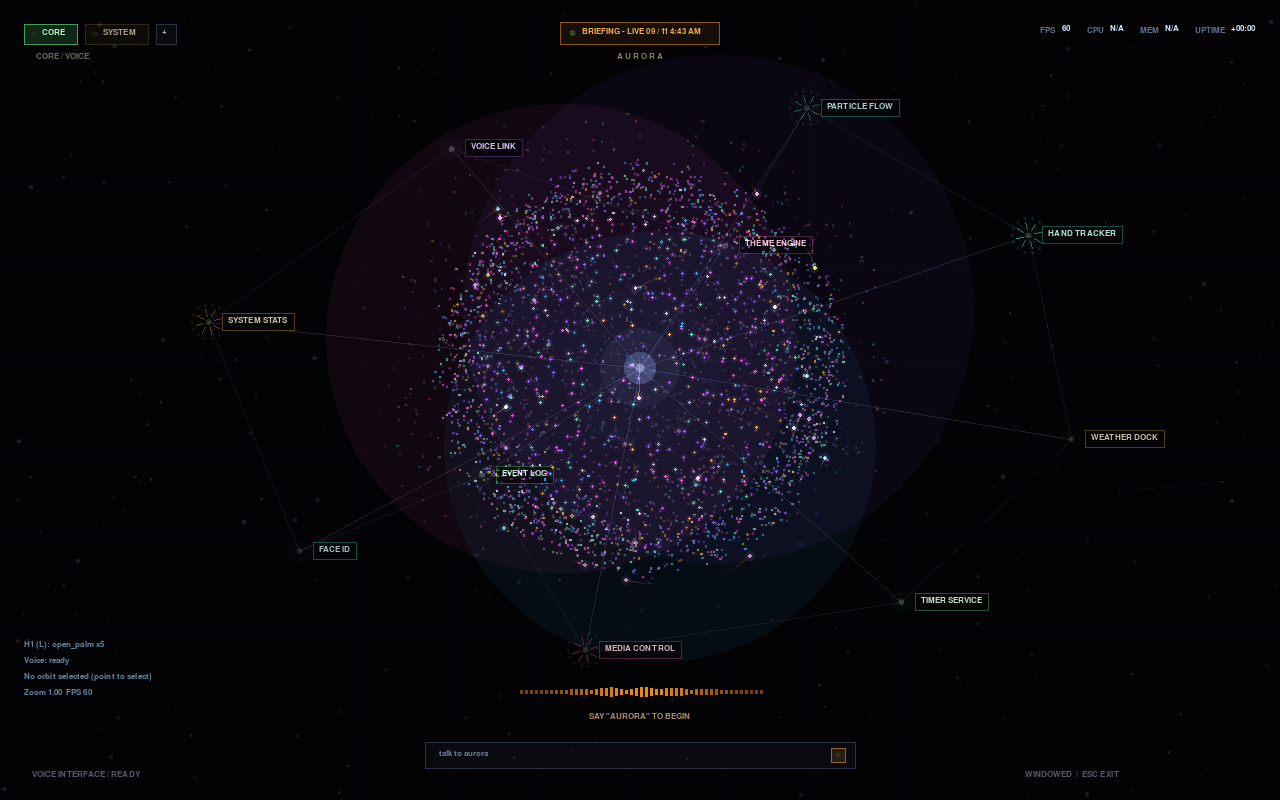
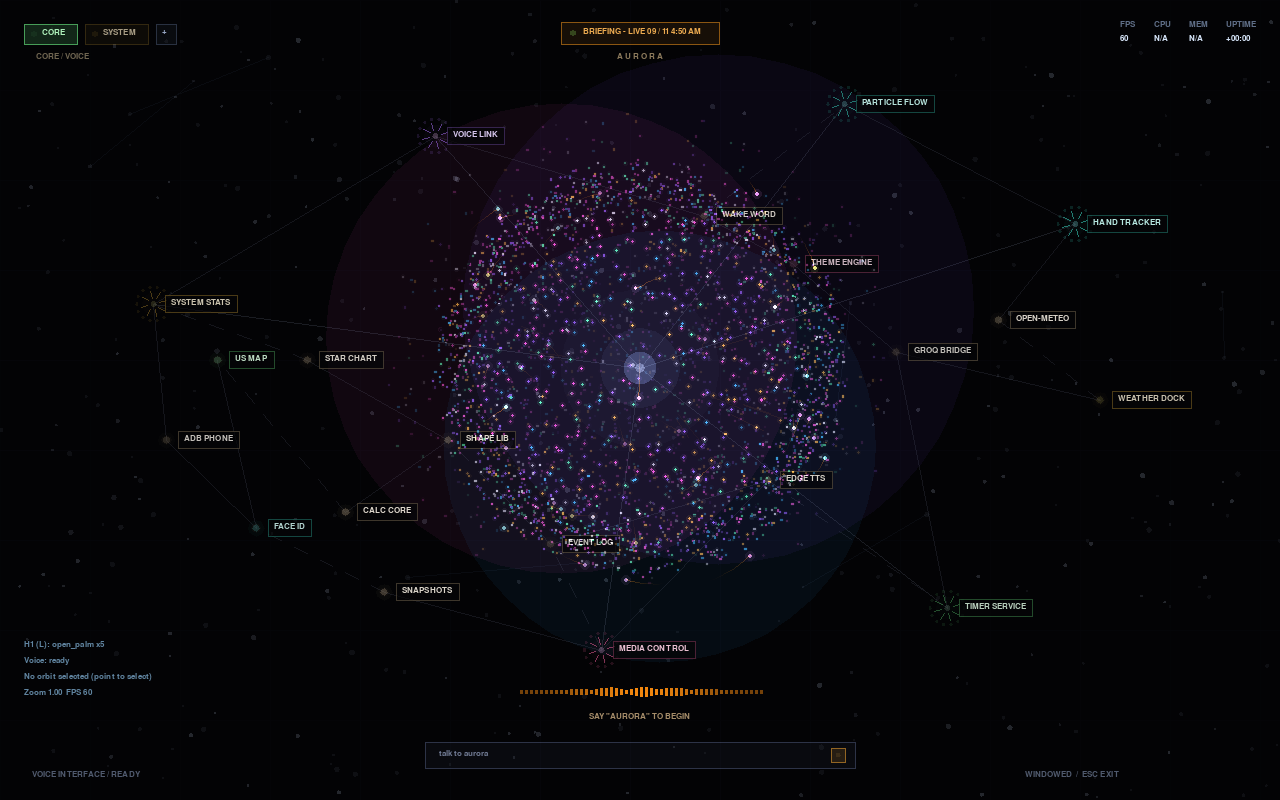
Closer constellation match: screen-wide graph, denser stars, swirl arms
- graph nodes now span the whole window (normalized screen positions)
  with long radiating hub spokes, chained links and dashed edges, like
  the reference dashboards; 20 subsystem nodes with tan terminal dots
  and colored gear clusters, boxed micro-labels
- denser/brighter 420-star field with varied star sizes
- white swirl arms sweeping around the nebula nucleus
- top-right stats restyled as two-row label/value mini table
- regenerated docs previews via the real-code software rasterizer

diff --git a/jarvis_ui/hologram.py b/jarvis_ui/hologram.py
@@ -51,30 +51,46 @@ THEMES = [
     (1.0, 0.2, 0.4),
 ]
 
-# Subsystem graph drawn around the voice core — a live constellation of the
-# assistant's modules. (label, ux, uy, family, gear) with gear=True drawing
-# the radial "flower" cluster from the reference. Families map to colors.
+# Subsystem graph drawn across the whole screen around the voice core — a
+# live constellation of the assistant's modules, in the style of the supplied
+# reference dashboards. (label, fx, fy, family, gear): fx/fy are normalized
+# screen positions; gear=True draws the radial "flower" cluster, otherwise a
+# small tan terminal dot. Families map to colors.
 GRAPH_FAMILIES = {
     "cyan": (0.25, 0.95, 0.85),
     "green": (0.45, 1.0, 0.55),
     "gold": (1.0, 0.78, 0.25),
     "pink": (1.0, 0.4, 0.65),
     "violet": (0.68, 0.45, 1.0),
+    "tan": (0.82, 0.72, 0.55),
 }
 GRAPH_NODES = [
-    ("VOICE LINK", -0.62, -0.86, "violet", False),
-    ("PARTICLE FLOW", 0.55, -1.02, "cyan", True),
-    ("HAND TRACKER", 1.28, -0.52, "cyan", True),
-    ("WEATHER DOCK", 1.42, 0.28, "gold", False),
-    ("TIMER SERVICE", 0.86, 0.92, "green", False),
-    ("MEDIA CONTROL", -0.18, 1.12, "pink", True),
-    ("FACE ID", -1.12, 0.72, "cyan", False),
-    ("SYSTEM STATS", -1.42, -0.18, "gold", True),
-    ("EVENT LOG", -0.52, 0.42, "green", False),
-    ("THEME ENGINE", 0.28, -0.48, "pink", False),
+    ("VOICE LINK", 0.34, 0.17, "violet", True),
+    ("WAKE WORD", 0.55, 0.27, "tan", False),
+    ("PARTICLE FLOW", 0.66, 0.13, "cyan", True),
+    ("HAND TRACKER", 0.84, 0.28, "cyan", True),
+    ("OPEN-METEO", 0.78, 0.40, "tan", False),
+    ("WEATHER DOCK", 0.87, 0.50, "gold", False),
+    ("GROQ BRIDGE", 0.70, 0.44, "tan", False),
+    ("TIMER SERVICE", 0.74, 0.76, "green", True),
+    ("EDGE TTS", 0.60, 0.60, "tan", False),
+    ("MEDIA CONTROL", 0.47, 0.82, "pink", True),
+    ("SNAPSHOTS", 0.30, 0.74, "tan", False),
+    ("FACE ID", 0.20, 0.66, "cyan", False),
+    ("ADB PHONE", 0.13, 0.55, "tan", False),
+    ("SYSTEM STATS", 0.12, 0.38, "gold", True),
+    ("STAR CHART", 0.24, 0.45, "tan", False),
+    ("SHAPE LIB", 0.35, 0.55, "tan", False),
+    ("CALC CORE", 0.27, 0.64, "tan", False),
+    ("US MAP", 0.17, 0.45, "green", False),
+    ("EVENT LOG", 0.43, 0.68, "tan", False),
+    ("THEME ENGINE", 0.62, 0.33, "pink", False),
 ]
 # Extra constellation edges between node indices (besides hub spokes).
-GRAPH_CROSS_LINKS = [(0, 7), (7, 6), (6, 8), (8, 5), (5, 4), (4, 3), (3, 2), (2, 1), (1, 9), (9, 0)]
+GRAPH_CROSS_LINKS = [(0, 1), (1, 2), (2, 3), (3, 4), (4, 5), (5, 6), (6, 7),
+                     (7, 8), (8, 9), (9, 10), (10, 11), (11, 12), (12, 13),
+                     (13, 14), (14, 15), (15, 16), (16, 17), (17, 11),
+                     (18, 15), (18, 8), (19, 1), (19, 6), (0, 13), (9, 18)]
 
 FLASH_COLORS = {
     "thumbs_up": (0.2, 1.0, 0.3),
@@ -370,8 +386,8 @@ class Hologram:
         # links between nearby stars (reference constellation dashboard).
         _star_rng = random.Random(7)
         self.stars = [
-            (_star_rng.random(), _star_rng.random(), _star_rng.uniform(0, 6.28), _star_rng.choice([1, 1, 1, 2]))
-            for _ in range(300)
+            (_star_rng.random(), _star_rng.random(), _star_rng.uniform(0, 6.28), _star_rng.choice([1, 1, 2, 2, 3]))
+            for _ in range(420)
         ]
         self.star_links = []
         for i in range(0, len(self.stars) - 1, 7):
@@ -1287,8 +1303,8 @@ class Hologram:
         for fx, fy, phase, size in self.stars:
             twinkle = 1.0 if self.reduced_motion else \
                 0.35 + 0.65 * max(0.0, math.sin(self.elapsed * 1.2 + phase))
-            glColor4f(0.8, 0.88, 1.0, 0.5 * twinkle)
-            self._draw_circle_2d(fx * self.width, fy * self.height, size * 0.8)
+            glColor4f(0.82, 0.88, 1.0, 0.65 * twinkle)
+            self._draw_circle_2d(fx * self.width, fy * self.height, size * 0.7)
 
     def _draw_rect(self, x, y, w, h, r, g, b, a, filled=True):
         glBegin(GL_QUADS if filled else GL_LINE_LOOP)
@@ -1439,15 +1455,15 @@ class Hologram:
             for label, frac in self._get_system_stats()[:2]:
                 stats.append((label, "N/A" if frac is None else f"{int(frac * 100)}"))
             stats.append(("UPTIME", up))
+            # two-row mini table, right aligned: dim label over bright value
             rx = self.width - 24
             for label, value in reversed(stats):
                 vw = self.font_small.size(value)[0] if self.font_small else len(value) * 7
                 lw = self.font_small.size(label)[0] if self.font_small else len(label) * 7
-                rx -= vw
-                self._blit_text(self.font_small, value, rx, 24, color=(215, 230, 250))
-                rx -= lw + 6
-                self._blit_text(self.font_small, label, rx, 26, color=(95, 110, 135))
-                rx -= 16
+                rx -= max(vw, lw)
+                self._blit_text(self.font_small, label, rx, 20, color=(95, 110, 135))
+                self._blit_text(self.font_small, value, rx, 34, color=(215, 230, 250))
+                rx -= 18
             label = "CORE / VOICE" if self.mode == "empty" else self.mode_label
             self._blit_text(self.font_small, self._fit_text(self.font_small, label, self.width / 2 - 235),
                             36, 52, color=(110, 100, 80))
@@ -1843,12 +1859,14 @@ class Hologram:
         fraction = min(1, (self.info_scroll + len(visible)) / max(1, len(lines)))
         self._draw_rect(x + 24, track_y, (w - 48) * fraction, 2, *theme_color, .65)
 
-    def _graph_positions(self, cx, cy, radius):
-        sx, sy = radius * 1.55, radius * 1.3
+    def _graph_positions(self):
+        """Screen-space node layout: the constellation spans the whole
+        window, with long connectors radiating through the core, like the
+        reference dashboards."""
         positions = []
-        for _label, ux, uy, _family, _gear in GRAPH_NODES:
-            x = min(self.width - 170, max(28, cx + ux * sx))
-            y = min(self.height - 150, max(86, cy + uy * sy))
+        for _label, fx, fy, _family, _gear in GRAPH_NODES:
+            x = min(self.width - 180, max(24, fx * self.width))
+            y = min(self.height - 150, max(80, fy * self.height))
             positions.append((x, y))
         return positions
 
@@ -1861,7 +1879,7 @@ class Hologram:
         side = ParticleCore.layout(self.width, self.height, True)
         cx, cy, radius = tuple(a + (b - a) * self._core_dock for a, b in zip(free, side))
         fade = self._materialize_progress()
-        positions = self._graph_positions(cx, cy, radius)
+        positions = self._graph_positions()
 
         # soft multi-hue nebula haze behind the core (additive)
         glBlendFunc(GL_SRC_ALPHA, GL_ONE)
@@ -1877,21 +1895,46 @@ class Hologram:
                 glVertex2f(cx + dx * radius + math.cos(angle) * radius * scale,
                            cy + dy * radius + math.sin(angle) * radius * scale)
             glEnd()
+        # white swirl arms sweeping around the nucleus, like the reference
+        if not self.reduced_motion:
+            glLineWidth(1.5)
+            for arm in range(2):
+                base = self.elapsed * 0.6 + arm * math.pi
+                glBegin(GL_LINE_STRIP)
+                for i in range(25):
+                    t = i / 24
+                    angle = base + t * 2.4
+                    rr = radius * (0.10 + 0.32 * t)
+                    glColor4f(0.9, 0.95, 1.0, (1 - t) * 0.45 * fade)
+                    glVertex2f(cx + math.cos(angle) * rr, cy + math.sin(angle) * rr * 0.9)
+                glEnd()
         glBlendFunc(GL_SRC_ALPHA, GL_ONE_MINUS_SRC_ALPHA)
 
-        # connector lines: hub spokes + cross links
+        # connector lines: hub spokes through gear nodes + chained links,
+        # some drawn dashed like the reference's long constellation edges
         glLineWidth(1.0)
         glBegin(GL_LINES)
-        for (x, y) in positions:
-            glColor4f(0.75, 0.82, 1.0, 0.13 * fade)
-            glVertex2f(cx, cy); glVertex2f(x, y)
+        for node, (x, y) in zip(GRAPH_NODES, positions):
+            if node[4]:
+                glColor4f(0.78, 0.84, 1.0, 0.12 * fade)
+                glVertex2f(cx, cy); glVertex2f(x, y)
         for a, b in GRAPH_CROSS_LINKS:
-            glColor4f(0.75, 0.82, 1.0, 0.08 * fade)
-            glVertex2f(*positions[a]); glVertex2f(*positions[b])
+            ax, ay = positions[a]
+            bx, by = positions[b]
+            glColor4f(0.78, 0.84, 1.0, 0.09 * fade)
+            if (a + b) % 3 == 0:  # dashed variant
+                length = math.hypot(bx - ax, by - ay) or 1
+                steps = max(2, int(length / 14))
+                for s in range(0, steps, 2):
+                    t0, t1 = s / steps, min(1, (s + 1) / steps)
+                    glVertex2f(ax + (bx - ax) * t0, ay + (by - ay) * t0)
+                    glVertex2f(ax + (bx - ax) * t1, ay + (by - ay) * t1)
+            else:
+                glVertex2f(ax, ay); glVertex2f(bx, by)
         glEnd()
 
         for index, (node, (x, y)) in enumerate(zip(GRAPH_NODES, positions)):
-            label, _ux, _uy, family, gear = node
+            label, _fx, _fy, family, gear = node
             r, g, b = GRAPH_FAMILIES[family]
             if label == "VOICE LINK":
                 status = 1.0 if self.voice_available else 0.35
@@ -1900,10 +1943,10 @@ class Hologram:
             else:
                 status = 0.75 + 0.25 * math.sin(self.elapsed * 1.7 + index)
             glow = status * fade
-            glColor4f(r, g, b, 0.10 * glow)
-            self._draw_circle_2d(x, y, 11, segments=16)
             if gear:
                 # radial "flower" cluster: dotted ring + spokes
+                glColor4f(r, g, b, 0.10 * glow)
+                self._draw_circle_2d(x, y, 11, segments=16)
                 glBegin(GL_LINES)
                 for s in range(8):
                     a = s * math.tau / 8 + self.elapsed * (0 if self.reduced_motion else 0.15)
@@ -1915,20 +1958,28 @@ class Hologram:
                     a = d * math.tau / 14
                     glColor4f(r, g, b, 0.55 * glow)
                     self._draw_circle_2d(x + math.cos(a) * 17, y + math.sin(a) * 17, 1.2, segments=6)
-            glColor4f(min(1, r + .3), min(1, g + .3), min(1, b + .3), 0.95 * glow)
-            self._draw_circle_2d(x, y, 2.6, segments=10)
+                glColor4f(min(1, r + .3), min(1, g + .3), min(1, b + .3), 0.95 * glow)
+                self._draw_circle_2d(x, y, 2.6, segments=10)
+            else:
+                # tan terminal dot with a darker ring, like the reference
+                glColor4f(r, g, b, 0.14 * glow)
+                self._draw_circle_2d(x, y, 8, segments=12)
+                glColor4f(0.16, 0.13, 0.10, 0.9 * fade)
+                self._draw_circle_2d(x, y, 4.6, segments=12)
+                glColor4f(min(1, r + .15), min(1, g + .15), min(1, b + .15), 0.9 * glow)
+                self._draw_circle_2d(x, y, 3.4, segments=12)
 
             # boxed uppercase label chip
             text = label.upper()
             tw = self.font_small.size(text)[0] if self.font_small else len(text) * 7
-            lx, ly = x + 14, y - 9
+            lx, ly = x + 12, y - 9
             if lx + tw + 12 > self.width - 8:
-                lx = x - tw - 26
+                lx = x - tw - 24
             self._draw_rect(lx, ly, tw + 12, 17, 0.02, 0.02, 0.03, 0.72 * fade)
-            self._draw_rect(lx, ly, tw + 12, 17, r, g, b, 0.30 * fade, filled=False)
+            self._draw_rect(lx, ly, tw + 12, 17, r, g, b, 0.28 * fade, filled=False)
             self._blit_text(self.font_small, text, lx + 6, ly + 3,
-                            color=(int(150 + 90 * r * status), int(150 + 90 * g * status),
-                                   int(150 + 90 * b * status)))
+                            color=(int(165 + 70 * r * status), int(165 + 70 * g * status),
+                                   int(165 + 70 * b * status)))
 
     def _draw_idle_indicator(self, theme_color):
         """Multi-hue nebula particle sphere with orbital trails and a hot
